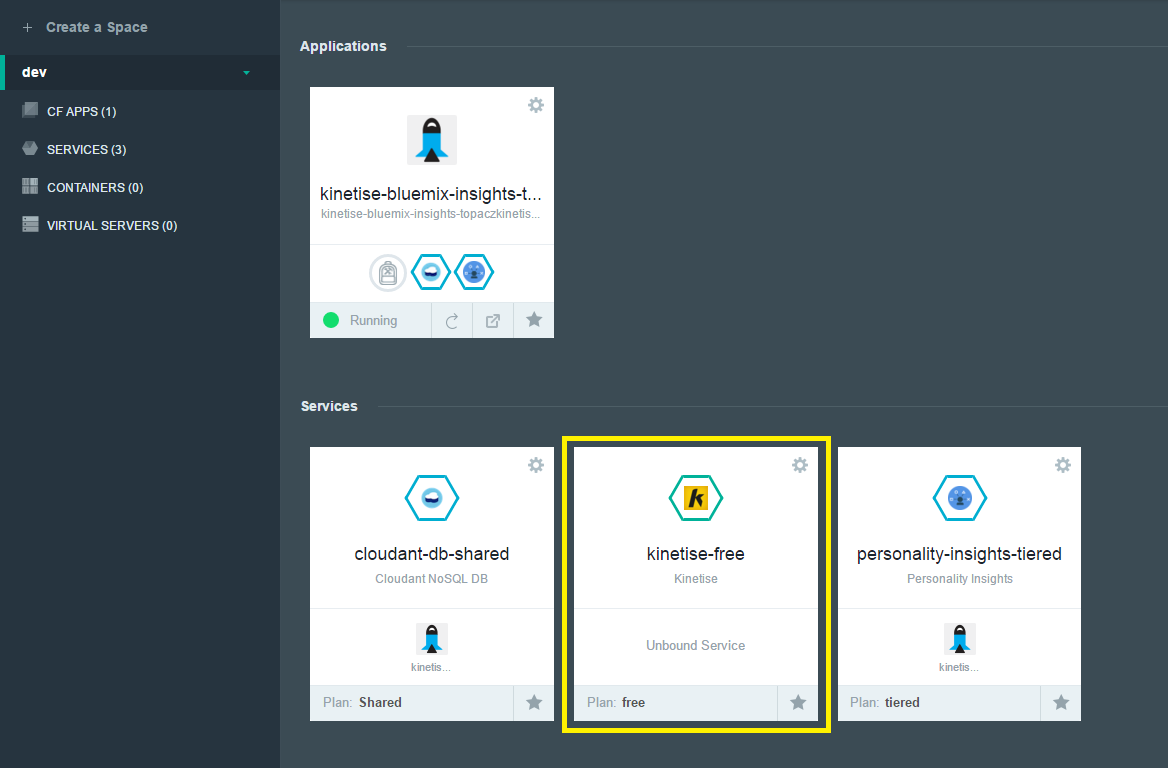
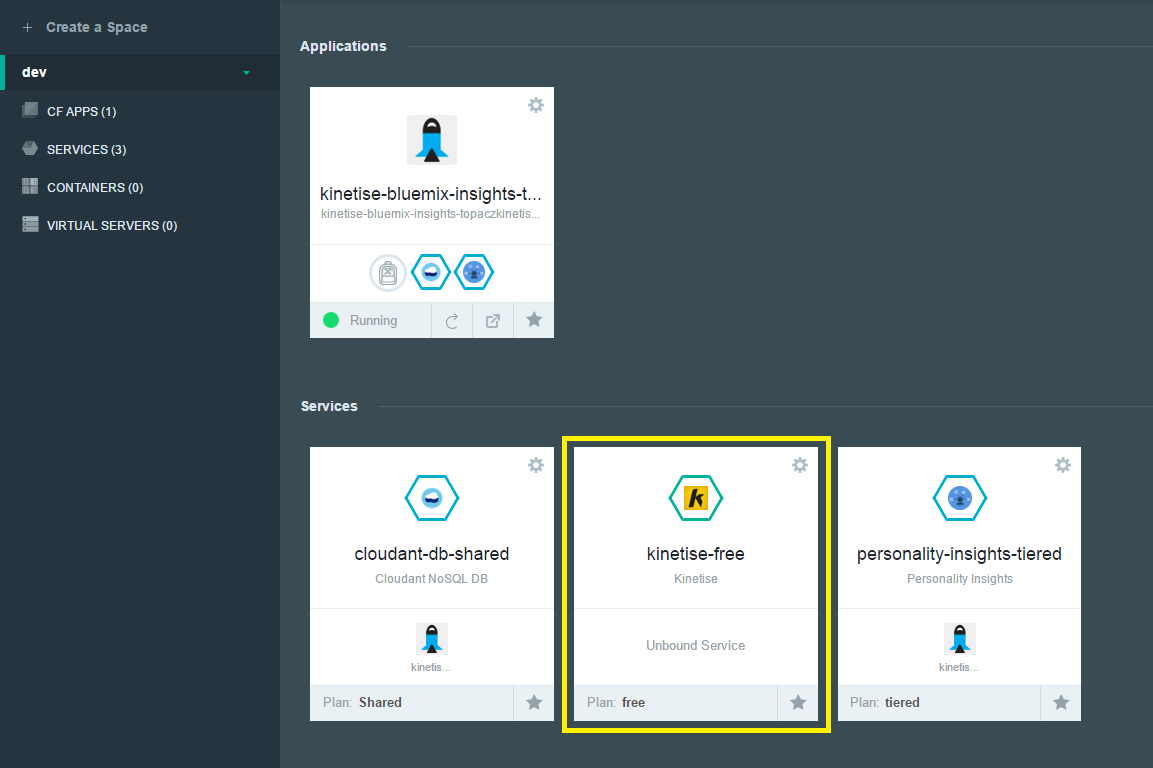
Renamed project, aligned size of screeshots

diff --git a/README.md b/README.md
@@ -27,6 +27,6 @@ The service publishes three endpoints:
 
 You can deploy this code to Bluemix using button below:
 
-[![Deploy to Bluemix](https://bluemix.net/deploy/button.png)](https://bluemix.net/deploy?repository=https://github.com/Kinetise/kinetise-bluemix-insights)
+[![Deploy to Bluemix](https://bluemix.net/deploy/button.png)](https://bluemix.net/deploy?repository=https://github.com/Kinetise/kinetise-watson-personality-insights)
 
-Once finished, click "View Your App" to continue.
+Once deployed, look for "View Your App" button to continue.
